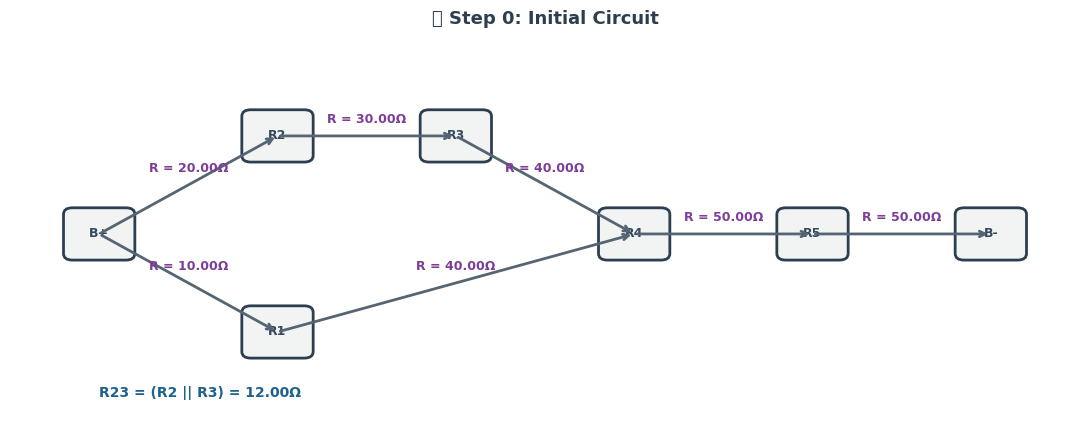
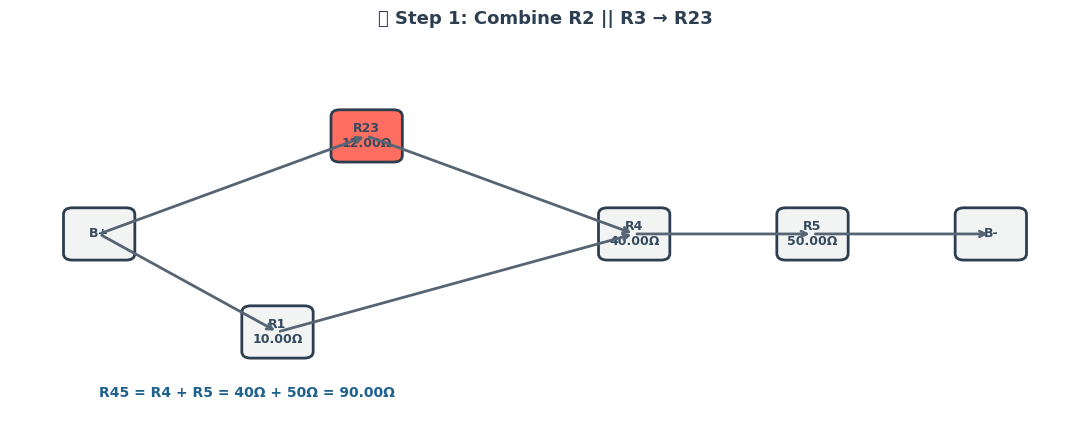
asdasdasd

diff --git a/docs/1 Physics/5 Circuits/Problem_1.md b/docs/1 Physics/5 Circuits/Problem_1.md
@@ -293,7 +293,15 @@ $$
 
 ## Visual
 
+![alt text](image.png)
+
+---
+
 ![alt text](image-4.png)
+
+---
+
+![alt text](image-5.png)
 
 ---
 
@@ -301,15 +309,7 @@ $$
 
 ---
 
-![alt text](image-11.png)
-
----
-
-![alt text](image-12.png)
-
----
-
-![alt text](image-13.png)
+![alt text](image-7.png)
 
 
 
@@ -391,7 +391,8 @@ $$
 
 ### 📈 Visualization 
 
-![alt text](<circuit_simplification (1).gif>)
+![alt text](circuit_animation.gif)
+
 ---
 
 ## ✅ Summary
@@ -825,7 +826,6 @@ for step in steps:
 ---
 
 ```python
-# ✅ Final Mixed Circuit Visualization with Edge Labels and Formulas
 import matplotlib.pyplot as plt
 import matplotlib.patches as patches
 
@@ -836,13 +836,13 @@ resistor_values = {
     "R3": 30,
     "R4": 40,
     "R5": 50,
-    "R23": 1 / (1 / 20 + 1 / 30),           # ≈12
-    "R45": 40 + 50,                         # 90
-    "R123": 10 + (1 / (1 / 20 + 1 / 30)),   # ≈22
+    "R23": 1 / (1 / 20 + 1 / 30),             # ≈12
+    "R45": 40 + 50,                           # 90
+    "R123": 10 + (1 / (1 / 20 + 1 / 30)),     # ≈22
     "R12345": 10 + (1 / (1 / 20 + 1 / 30)) + 40 + 50  # ≈112
 }
 
-# Positions of nodes
+# Node positions
 positions = {
     "B+": (0, 2),
     "R1": (2, 0.5),
@@ -857,7 +857,7 @@ positions = {
     "B-": (10, 2)
 }
 
-# Simplification steps
+# Circuit simplification steps
 steps = [
     {
         "title": "🔰 Step 0: Initial Circuit",
@@ -865,10 +865,6 @@ steps = [
         "lines": [("B+", "R2"), ("R2", "R3"), ("R3", "R4"),
                   ("B+", "R1"), ("R1", "R4"), ("R4", "R5"), ("R5", "B-")],
         "highlight": [],
-        "label_lines": {
-            ("B+", "R2"): "R2", ("R2", "R3"): "R3", ("R3", "R4"): "R4",
-            ("B+", "R1"): "R1", ("R1", "R4"): "R4", ("R4", "R5"): "R5", ("R5", "B-"): "R5"
-        },
         "formula": "R23 = (R2 || R3) = 12.00Ω"
     },
     {
@@ -877,10 +873,6 @@ steps = [
         "lines": [("B+", "R23"), ("R23", "R4"),
                   ("B+", "R1"), ("R1", "R4"), ("R4", "R5"), ("R5", "B-")],
         "highlight": ["R23"],
-        "label_lines": {
-            ("B+", "R23"): "R23", ("R23", "R4"): "R23",
-            ("B+", "R1"): "R1", ("R1", "R4"): "R4", ("R4", "R5"): "R5", ("R5", "B-"): "R5"
-        },
         "formula": "R45 = R4 + R5 = 40Ω + 50Ω = 90.00Ω"
     },
     {
@@ -889,10 +881,6 @@ steps = [
         "lines": [("B+", "R23"), ("R23", "R45"),
                   ("B+", "R1"), ("R1", "R45"), ("R45", "B-")],
         "highlight": ["R45"],
-        "label_lines": {
-            ("B+", "R23"): "R23", ("R23", "R45"): "R23",
-            ("B+", "R1"): "R1", ("R1", "R45"): "R4", ("R45", "B-"): "R45"
-        },
         "formula": "R123 = R1 + R23 = 10Ω + 12Ω = 22.00Ω"
     },
     {
@@ -900,9 +888,6 @@ steps = [
         "boxes": ["B+", "R123", "R45", "B-"],
         "lines": [("B+", "R123"), ("R123", "R45"), ("R45", "B-")],
         "highlight": ["R123"],
-        "label_lines": {
-            ("B+", "R123"): "R123", ("R123", "R45"): "R123", ("R45", "B-"): "R45"
-        },
         "formula": "R12345 = R123 + R45 = 22Ω + 90Ω = 112.00Ω"
     },
     {
@@ -910,9 +895,6 @@ steps = [
         "boxes": ["B+", "R12345", "B-"],
         "lines": [("B+", "R12345"), ("R12345", "B-")],
         "highlight": ["R12345"],
-        "label_lines": {
-            ("B+", "R12345"): "R12345", ("R12345", "B-"): "R12345"
-        },
         "formula": "R_eq = 112.00Ω"
     }
 ]
@@ -930,9 +912,9 @@ def draw_step(step):
     ax.set_xlim(-1, 11)
     ax.set_ylim(-1, 5)
     ax.axis("off")
-    ax.set_title(step["title"], fontsize=13, pad=10, weight='bold', color="#2C3E50")
+    ax.set_title(step["title"], fontsize=13, weight='bold', pad=10, color="#2C3E50")
 
-    # Draw boxes
+    # Draw resistor boxes
     for box in step["boxes"]:
         x, y = positions[box]
         color = highlight_colors.get(box, "#D6DBDF") if box in step["highlight"] else "#F2F4F4"
@@ -940,30 +922,28 @@ def draw_step(step):
                                       boxstyle="round,pad=0.1", edgecolor="#2C3E50",
                                       facecolor=color, linewidth=2)
         ax.add_patch(rect)
-        ax.text(x, y, box, ha="center", va="center", fontsize=9, weight="bold", color="#34495E")
 
-    # Draw connections
+        # Label with name + Ohm if available
+        if box in resistor_values:
+            label = f"{box}\n{resistor_values[box]:.2f}Ω"
+        else:
+            label = box
+        ax.text(x, y, label, ha="center", va="center", fontsize=9, weight="bold", color="#34495E")
+
+    # Draw connections (no labels)
     for u, v in step["lines"]:
         x1, y1 = positions[u]
         x2, y2 = positions[v]
-        mx, my = (x1 + x2) / 2, (y1 + y2) / 2
-        ax.annotate("",
-                    xy=(x2, y2), xytext=(x1, y1),
+        ax.annotate("", xy=(x2, y2), xytext=(x1, y1),
                     arrowprops=dict(arrowstyle="->", lw=2, color="#566573"))
 
-        if "label_lines" in step:
-            key = (u, v) if (u, v) in step["label_lines"] else (v, u)
-            rname = step["label_lines"].get(key)
-            if rname and rname in resistor_values:
-                rlabel = f"R = {resistor_values[rname]:.2f}Ω"
-                ax.text(mx, my + 0.25, rlabel, ha="center", va="center",
-                        fontsize=9, color="#7D3C98", weight='bold')
-
+    # Draw formula
     ax.text(0, -0.5, step["formula"], fontsize=10, weight='bold', color='#1F618D')
+
     plt.tight_layout()
     plt.show()
 
-# 🖼 Draw all simplification steps
+# Draw all steps
 for step in steps:
     draw_step(step)
 ```
